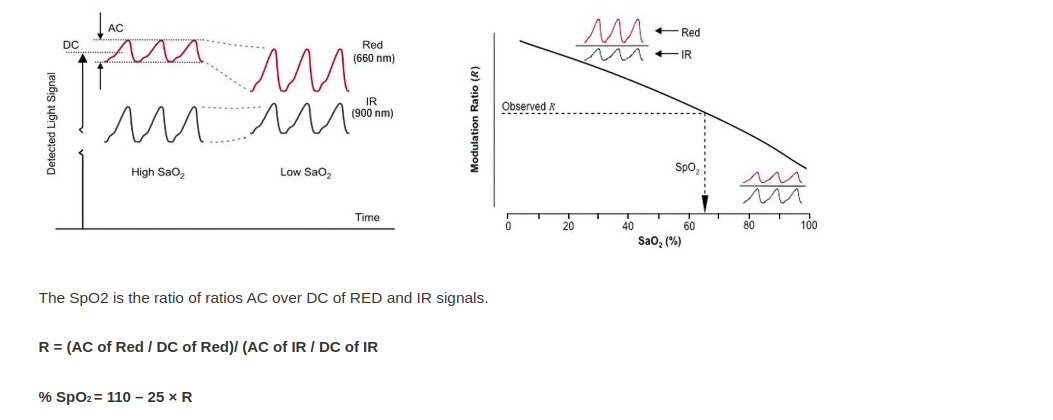
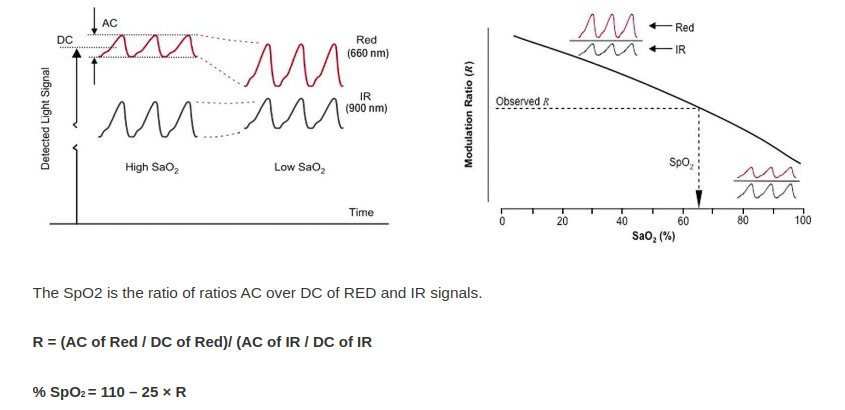
chore: edit size image Formula to Caculate SpO2

diff --git a/pythonProject/README.md b/pythonProject/README.md
@@ -10,7 +10,7 @@
 - SpO2 = 110 - 25*R with R defined above picture
 
 # 2. Result
-- This is the result I collected data by sensr MAX30102 and processing signal by python.
+- This is the result I collected data by sensor MAX30102 and processing signal by python.
     <p align="center">
     <img src="pictures/spo2.png" alt="Result SpO2" width="1000">
     <br>
